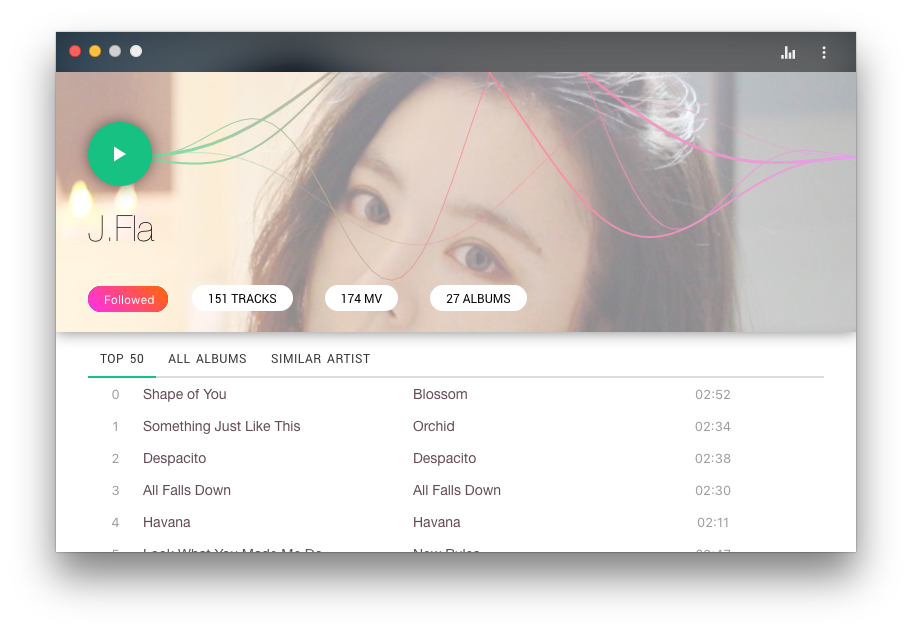
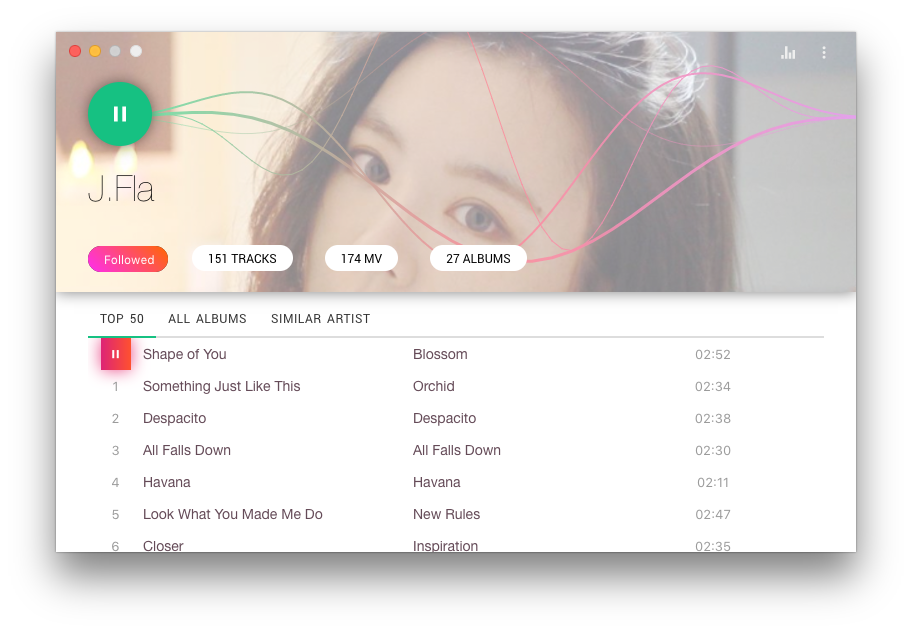
Remove header from artist screen

diff --git a/src/js/pages/Artist/index.js b/src/js/pages/Artist/index.js
@@ -247,10 +247,14 @@ class Artist extends Component {
             <div className={classes.container}>
                 <Loader show={loading} />
 
-                <Header {...{
-                    showBack: true,
-                    showPlaylist: true,
-                }} />
+                <Header
+                    {...{
+                        transparent: true,
+                        showBack: true,
+                        showPlaylist: true,
+                    }}
+                />
+
                 <div className={classes.hero}>
                     <ProgressImage {...{
                         width: window.innerWidth,

diff --git a/src/js/pages/Artist/classes.js b/src/js/pages/Artist/classes.js
@@ -2,9 +2,7 @@
 import perdido from 'perdido';
 
 export default theme => ({
-    container: {
-        marginTop: 40,
-    },
+    container: {},
 
     hero: {
         position: 'relative',
@@ -173,7 +171,7 @@ export default theme => ({
     },
 
     content: {
-        height: 'calc(100vh - 260px - 46px - 40px)',
+        height: 'calc(100vh - 260px - 46px)',
         overflow: 'hidden',
         overflowY: 'auto',
 
